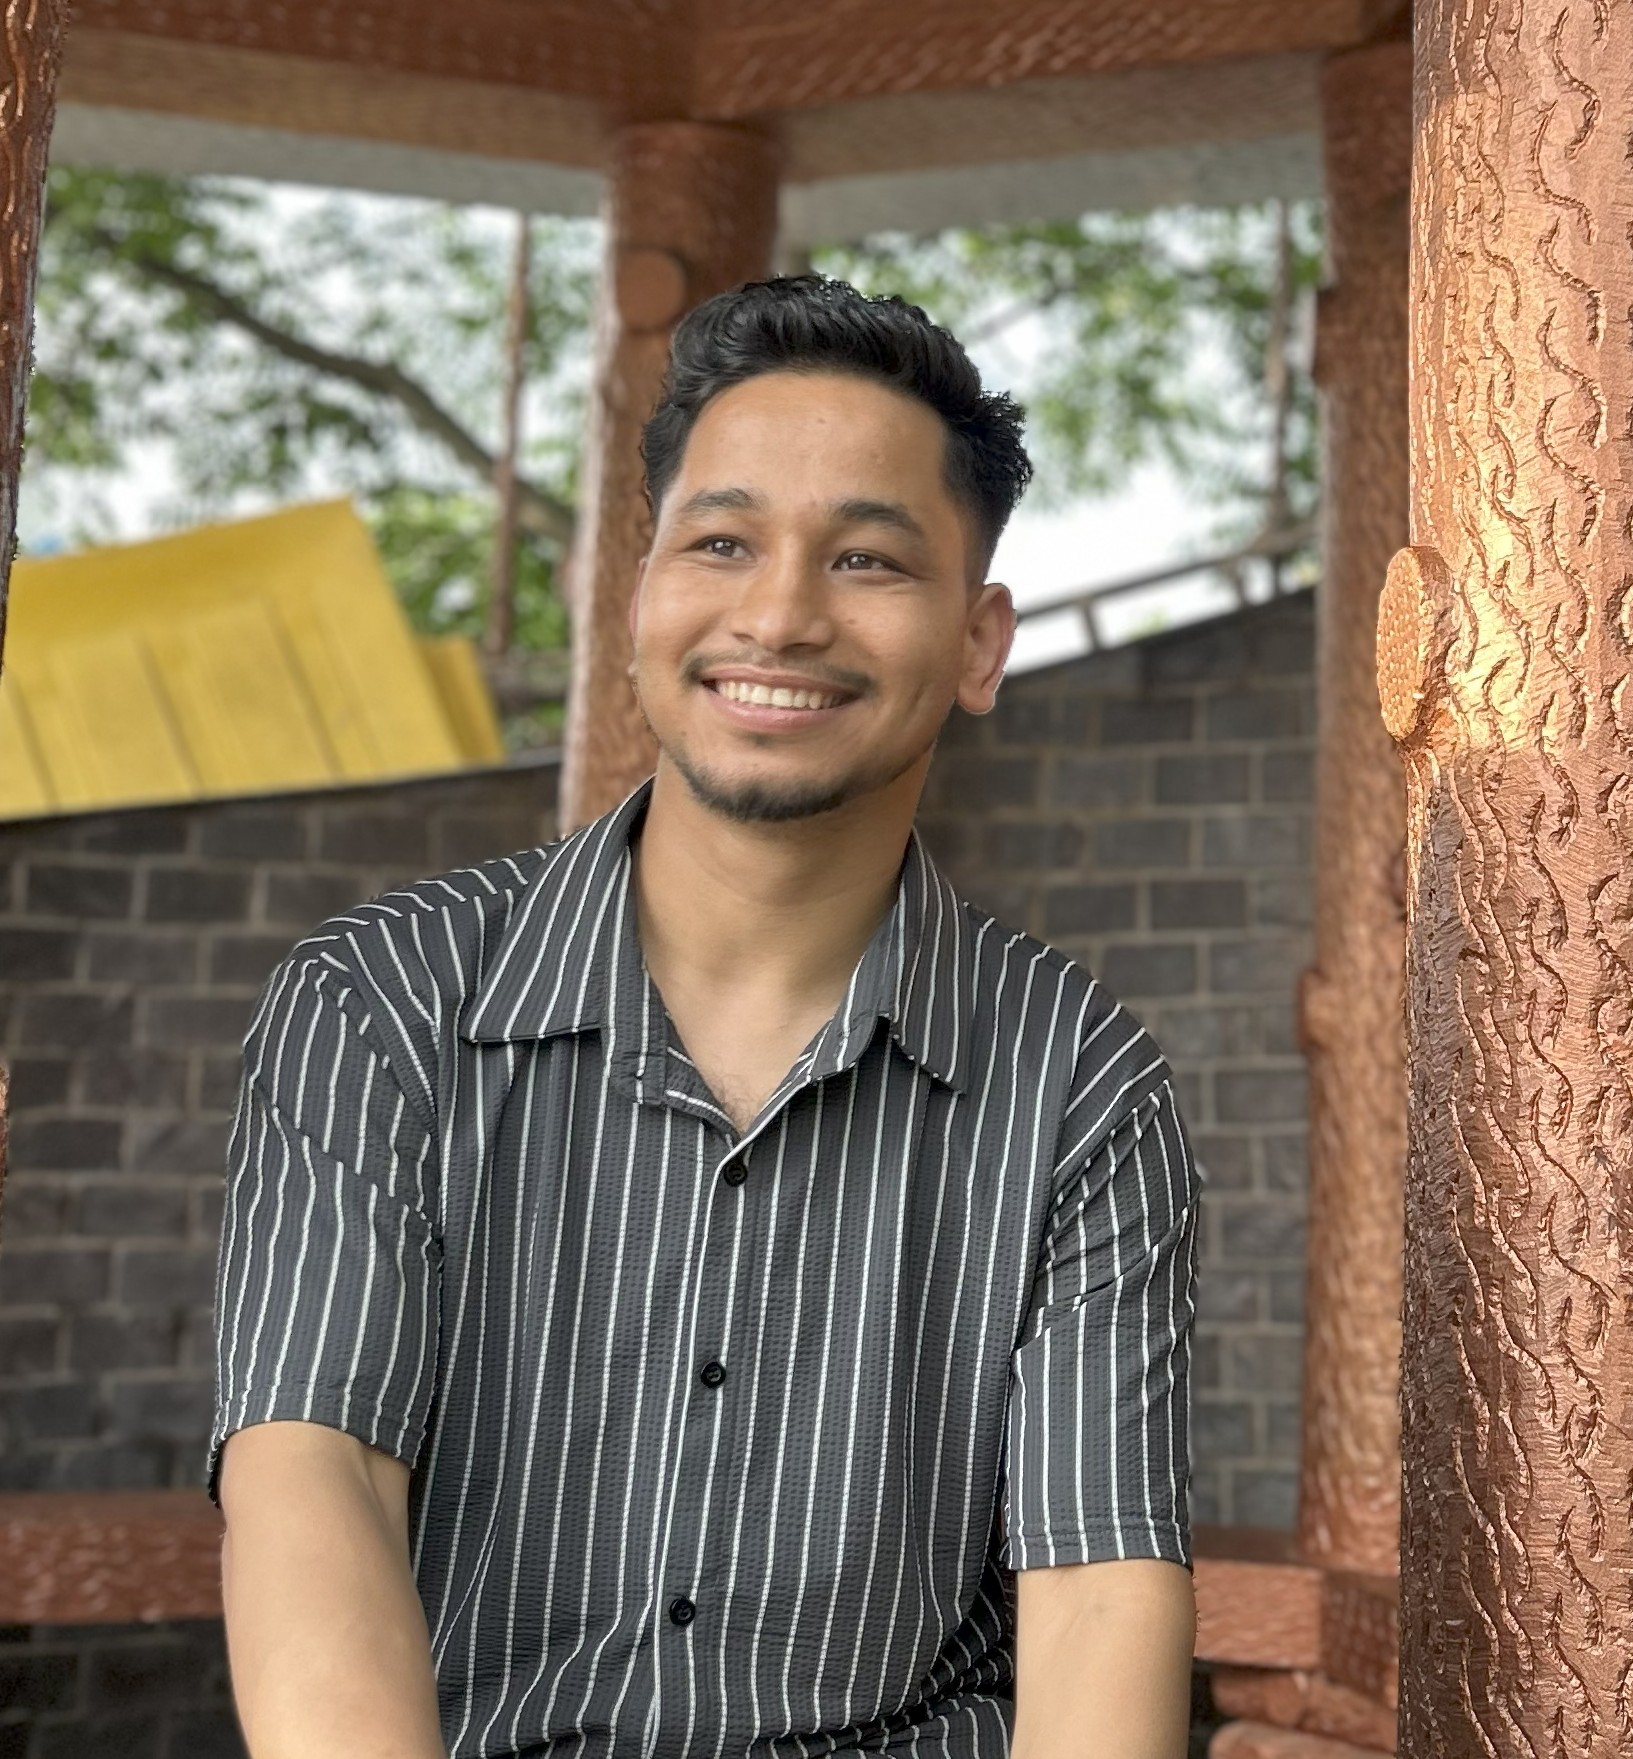
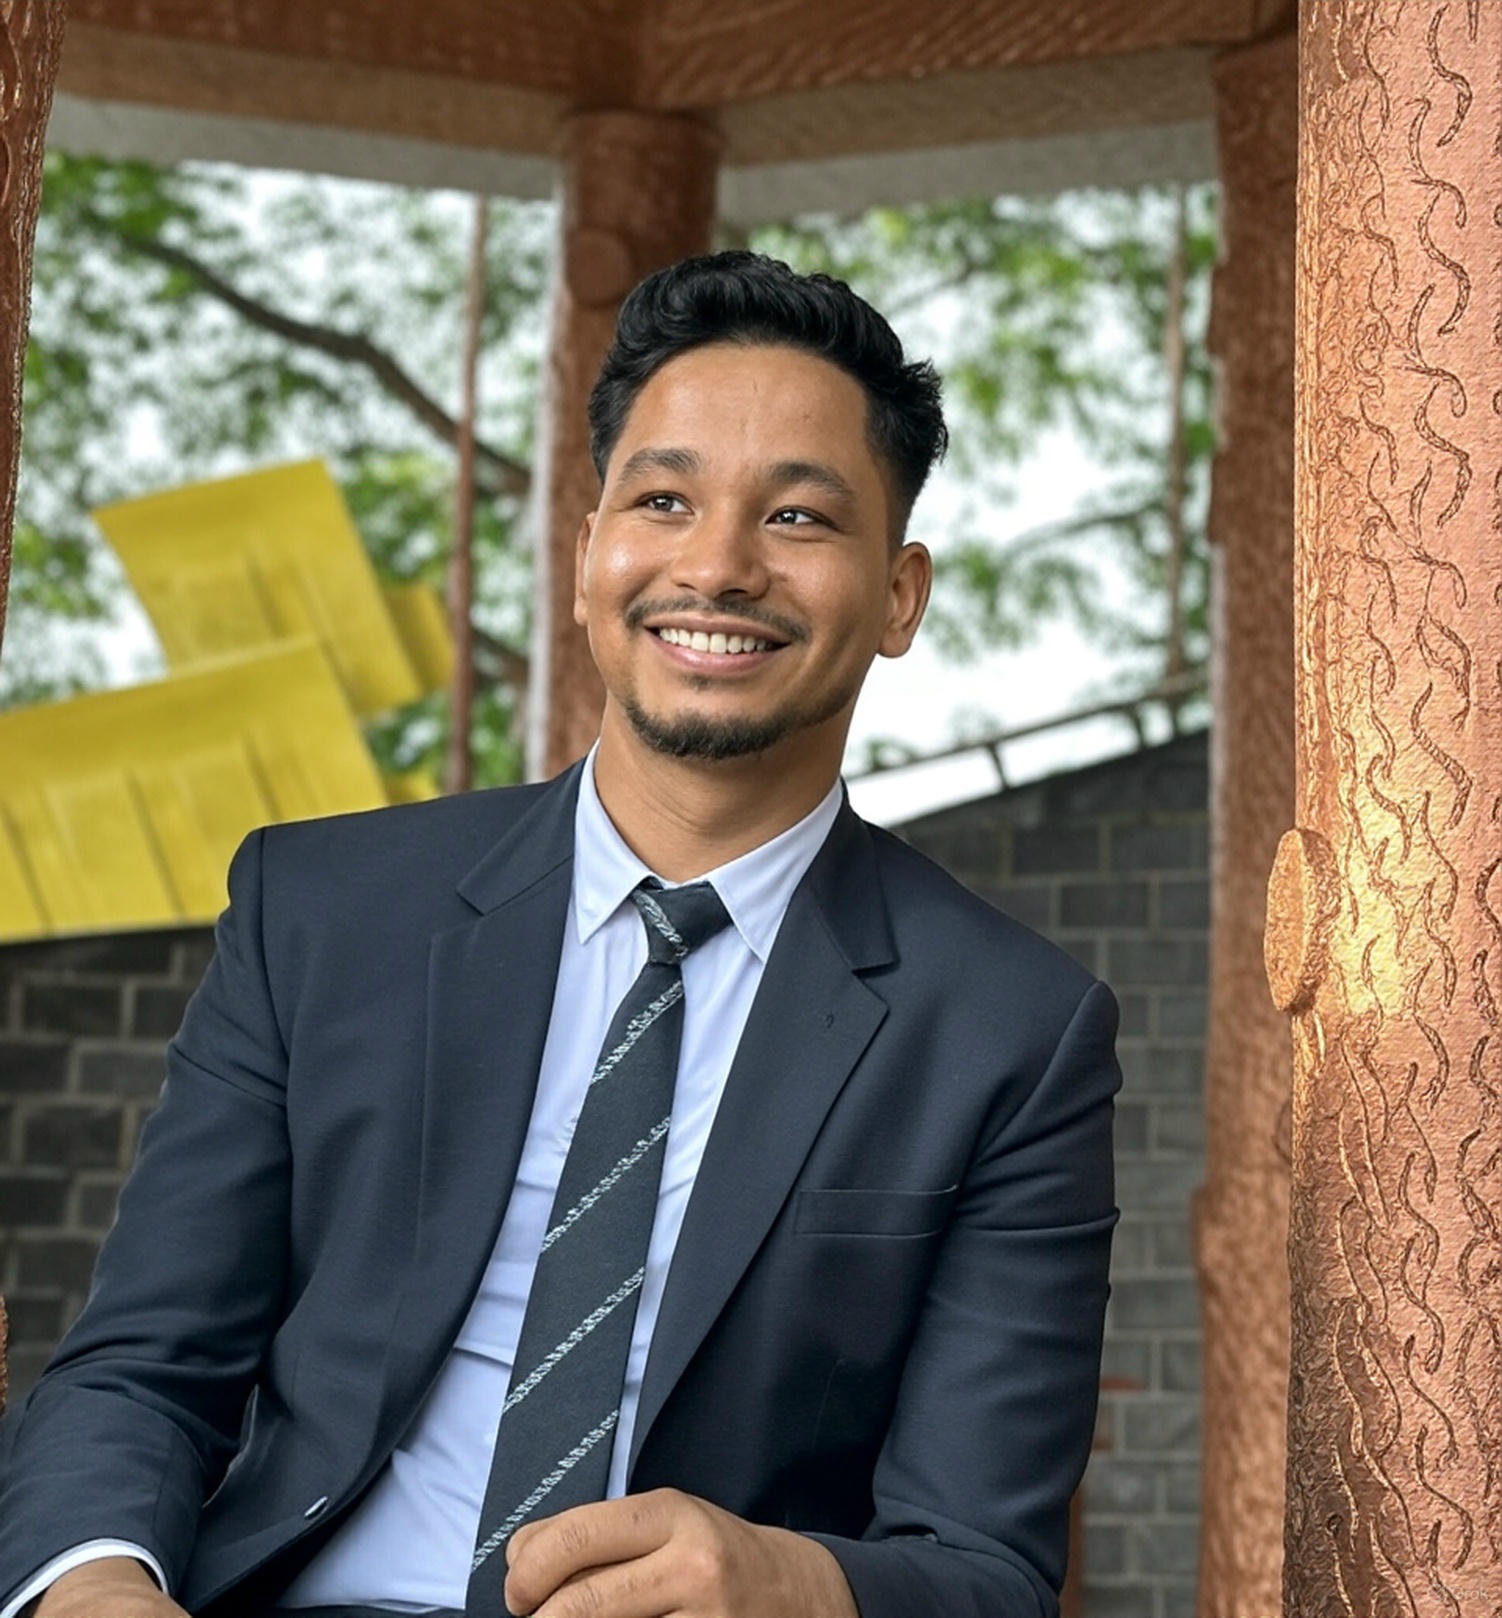
d

diff --git a/src/index.css b/src/index.css
@@ -172,7 +172,7 @@ h3 {
 }
 
 .back {
-  background-image: url('../src/Components/images/profile2.jpg');
+  background-image: url('../src/Components/images/image12221.jpg');
   background-repeat: no-repeat;
   background-size: cover;
   background-attachment: fixed;
@@ -180,7 +180,7 @@ h3 {
   margin-bottom: 4rem;
 }
 .cont{
-  background-image: url('../src/Components/images/profile2.jpg');
+  background-image: url('../src/Components/images/image12221.jpg');
   background-repeat: no-repeat;
   background-size: cover;
   background-attachment: fixed;
